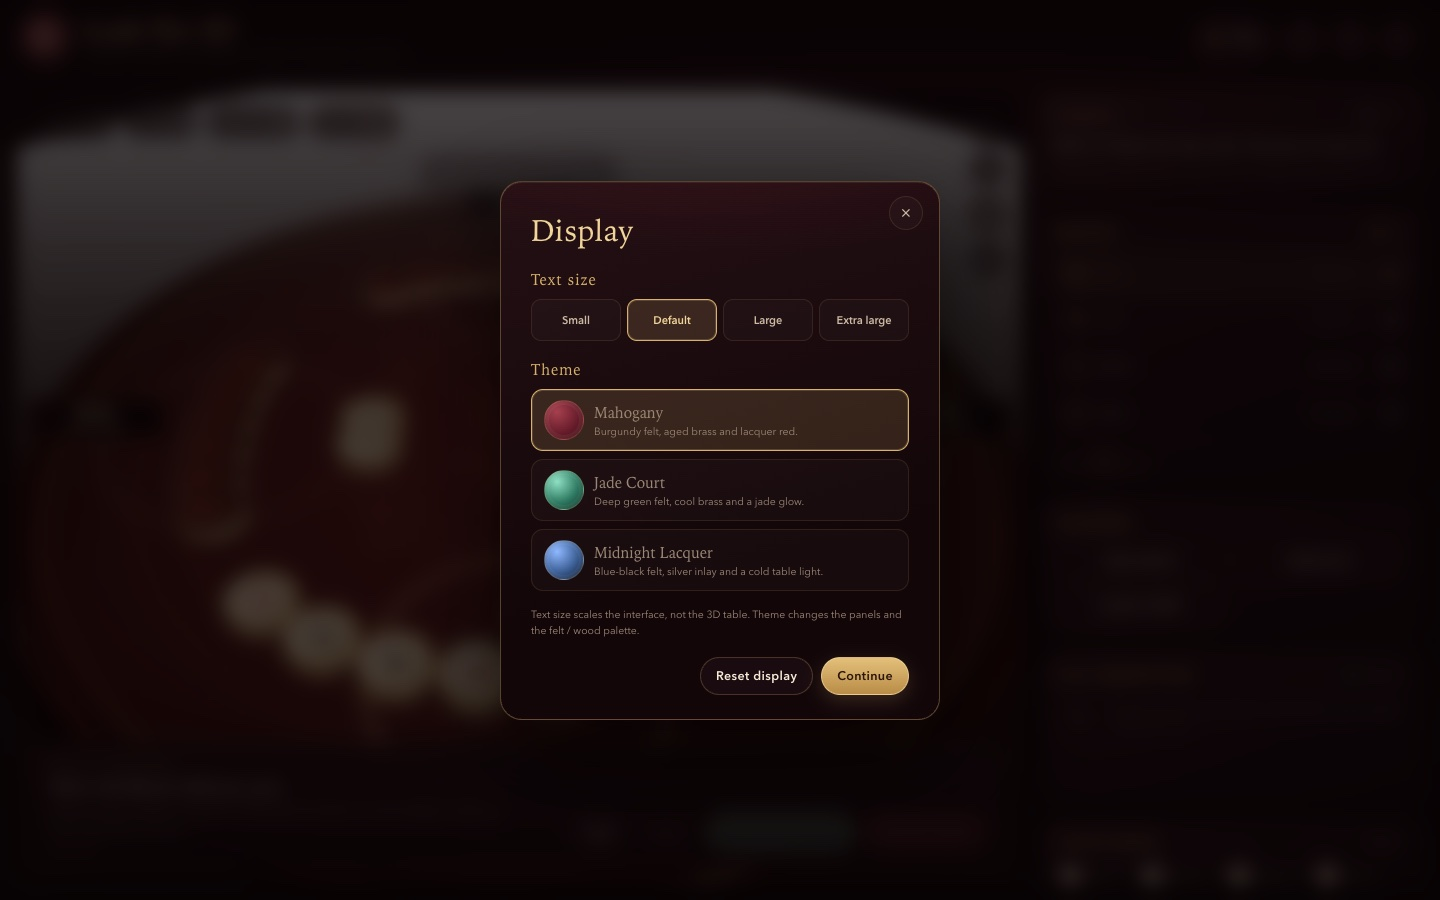
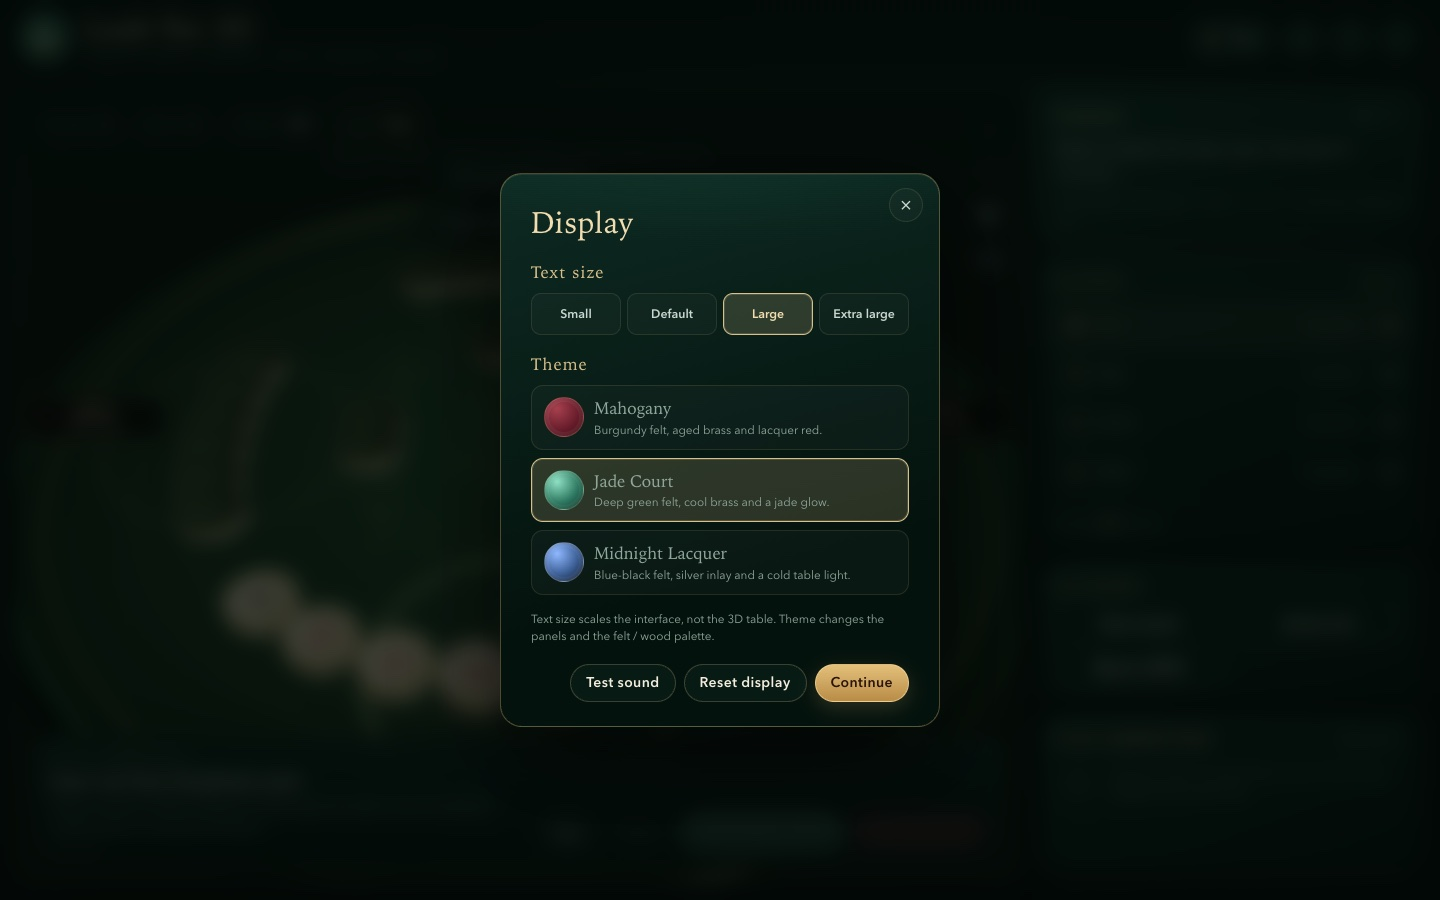
Add sound test and final display release notes

diff --git a/script.js b/script.js
@@ -18,13 +18,13 @@ const APP = Object.freeze({
   license: "MIT",
   build: {
     startedAt: "2026-11-04T00:16:43-08:00",
-    packagedAt: "2026-11-04T08:31:38-08:00",
-    durationHuman: "1h 36m 40s",
-    tokensTotal: "743289",
-    tokensInput: "433865",
-    tokensOutput: "180500",
-    tokensReasoning: "128924",
-    tokensCacheRead: "56907776",
+    packagedAt: "2026-11-04T16:42:58-08:00",
+    durationHuman: "1h 48m 40s",
+    tokensTotal: "775266",
+    tokensInput: "451673",
+    tokensOutput: "186418",
+    tokensReasoning: "137175",
+    tokensCacheRead: "64696448",
     sessionId: "ses_e5a5e419dffedJGEsMy3mKV3ey",
     harness: "OpenCode 2.2.5",
     model: "DeepSeek V4.1 Flash (opencode-go/deepseek-v4.1-flash)"
@@ -248,6 +248,7 @@ const I18N = {
     "display.theme": "Theme",
     "display.note": "Text size scales the interface, not the 3D table. Theme changes the panels and the felt / wood palette.",
     "display.reset": "Reset display",
+    "display.testSound": "Test sound",
     "theme.mahogany": "Mahogany",
     "theme.mahoganyDesc": "Burgundy felt, aged brass and lacquer red.",
     "theme.jade": "Jade Court",
@@ -257,6 +258,7 @@ const I18N = {
     "toast.fontSize": "Text size set to {size}.",
     "toast.theme": "Theme set to {theme}.",
     "toast.displayReset": "Display settings reset.",
+    "toast.soundTest": "Sound test — a wooden clack.",
     "camera.hint": "Drag to orbit · scroll to zoom · right-drag to pan",
     "coach.title": "Coach",
     "coach.live": "live",
@@ -483,6 +485,7 @@ const I18N = {
     "display.theme": "ธีม",
     "display.note": "ขนาดตัวอักษรปรับเฉพาะหน้าจอ ไม่กระทบโต๊ะ 3 มิติ ส่วนธีมเปลี่ยนสีแผงและโทนโต๊ะ",
     "display.reset": "รีเซ็ตการแสดงผล",
+    "display.testSound": "ทดสอบเสียง",
     "theme.mahogany": "มาฮอกกานี",
     "theme.mahoganyDesc": "ผ้าสีเบอร์กันดี ทองเก่า และแดงแล็กเกอร์",
     "theme.jade": "ศาลหยก",
@@ -492,6 +495,7 @@ const I18N = {
     "toast.fontSize": "ตั้งขนาดตัวอักษรเป็น {size}",
     "toast.theme": "ตั้งธีมเป็น {theme}",
     "toast.displayReset": "รีเซ็ตการแสดงผลแล้ว",
+    "toast.soundTest": "ทดสอบเสียง — เสียงไม้กระทบ",
     "camera.hint": "ลากเพื่อหมุน · เลื่อนเพื่อซูม · ลากขวาเพื่อเลื่อนฉาก",
     "coach.title": "โค้ช",
     "coach.live": "สด",
@@ -2266,7 +2270,7 @@ function setSound(enabled) {
   button?.setAttribute("aria-pressed", String(prefs.sound));
   const icon = $("#soundIcon");
   if (icon) icon.textContent = prefs.sound ? "♪" : "♪";
-  if (prefs.sound) audio?.play("click", 0);
+  if (prefs.sound) audio?.play("clack", 0);
   savePrefs();
   toast(prefs.sound ? t("toast.soundOn") : t("toast.soundOff"));
 }
@@ -3557,6 +3561,11 @@ function bindEvents() {
   $$("button[data-font-size]").forEach((button) => button.addEventListener("click", () => applyFontSize(button.dataset.fontSize)));
   $$("button[data-theme-choice]").forEach((button) => button.addEventListener("click", () => applyTheme(button.dataset.themeChoice)));
   $("#displayReset")?.addEventListener("click", resetDisplay);
+  $("#soundTest")?.addEventListener("click", () => {
+    audio?.resume();
+    setTimeout(() => audio?.play("clack", 0), 30);
+    toast(t("toast.soundTest"), "jade");
+  });
 
   $("#leadBtn")?.addEventListener("click", humanLead);
   $("#revealBtn")?.addEventListener("click", () => humanFollow(true));

diff --git a/index.html b/index.html
@@ -201,6 +201,7 @@
         </div>
         <p class="display-note" data-i18n="display.note">Text size scales the interface, not the 3D table. Theme changes the panels and the felt / wood palette.</p>
         <div class="modal-actions">
+          <button id="soundTest" class="btn btn-ghost" type="button" data-i18n="display.testSound">Test sound</button>
           <button id="displayReset" class="btn btn-ghost" type="button" data-i18n="display.reset">Reset display</button>
           <button class="btn btn-gold" type="button" data-close="displayModal" data-i18n="actions.continue">Continue</button>
         </div>

diff --git a/STATE.md b/STATE.md
@@ -16,8 +16,8 @@
 | Primary branch | `main` |
 | Build type | Static site; no package manager, no build step |
 | Source files | `index.html`, `style.css`, `script.js` |
-| Source lines | 4,927 |
-| Source size | 218,918 bytes (~214 KB) |
+| Source lines | 4,937 |
+| Source size | 219,465 bytes (~214 KB) |
 | Runtime dependency | Three.js r160 from jsDelivr (pinned) |
 | Storage | `localStorage` + JSON export |
 | Licence | MIT |
@@ -45,22 +45,23 @@ Audio was also rebalanced: master 0.8, a dynamics compressor, higher per-effect 
 | Documentation, release files, state record | 01:03–01:15 | ~12m |
 | GitHub publication, Pages and skill catalog | 01:15–01:21 | ~6m |
 | **1.1.0 display + audio update** | 08:02–08:31 | 29m 0s |
+| **Audio test + final verification** | 16:37–16:42 | 5m 0s |
 
-**Measured active build duration:** **1h 36m 40s** (5,800 s) = 1h 7m 40s initial build + 29m 0s display/audio update. Session wall clock is longer because it includes an overnight idle gap; the source freeze for 1.0.0 was 01:24:23 and the 1.1.0 update completed at 08:31:38.
+**Measured active build estimate:** **1h 48m 40s** (6,520 s) across the initial build, the display/audio update and the final audio test. Session wall clock is much longer because it includes idle gaps between requests.
 
 ## Token consumption
 
-Measured from the OpenCode session record `ses_e5a5e419dffedJGEsMy3mKV3ey` at 2026-11-04 08:31:38 (-08:00), including the 1.1.0 display/audio update:
+Measured from the OpenCode session record `ses_e5a5e419dffedJGEsMy3mKV3ey` at 2026-11-04 16:42:58 (-08:00), including display settings, themes and the audio rebalance:
 
 | Metric | Tokens |
 | --- | ---: |
-| Input | 433,865 |
-| Output | 180,500 |
-| Reasoning | 128,924 |
-| **Total (input + output + reasoning)** | **743,289** |
-| Cache read | 56,907,776 |
+| Input | 451,673 |
+| Output | 186,418 |
+| Reasoning | 137,175 |
+| **Total (input + output + reasoning)** | **775,266** |
+| Cache read | 64,696,448 |
 | Cache write | 1,639 |
-| **Total including cache** | **57,652,704** |
+| **Total including cache** | **65,473,353** |
 | Cost | $0.00 (as reported) |
 
 The cache figures describe context reuse, not additional generated work. They are reported separately so the headline number stays comparable to a normal token count. These are session totals. The final state-file commit and Pages rebuild add a small number of tokens; the session ID allows re-measurement from `opencode.db`.
@@ -71,7 +72,7 @@ The cache figures describe context reuse, not additional generated work. They ar
 - **Four-seat game** — human South plus three heuristic AI seats; dealing, leading, face-down submission, optional reveal, trick capture, next leader, round and match end.
 - **3D table** — 32 bevelled cylindrical tiles with procedural Hanzi faces and lacquered backs, mahogany felt table, soft shadows, seat rings, floating labels, dust, dealing/flip/capture animations, OrbitControls, reset/top/cinematic cameras, portrait framing.
 - **Learning tools** — tile inspector (Thai/English/rank/copies), live bilingual coach, deterministic Hint, Undo & Learn comparison, full rules drawer.
-- **Bilingual UI** — EN ⇄ TH across 232 dictionary keys, dynamic coach/log/summary strings, tile names, ARIA labels and 3D score labels.
+- **Bilingual UI** — EN ⇄ TH across 235 dictionary keys, dynamic coach/log/summary strings, tile names, ARIA labels and 3D score labels.
 - **Audio** — synthesised shuffle, clack, flip, sweep, win, lose, undo; unlocked on first gesture; no files.
 - **Persistence** — autosaved match, preferences and statistics; reload-resume; versioned JSON export with app, credits, stats and game.
 - **Verification** — 25-check in-page suite, dependency-free static check, Chrome CDP harness, full-round/undo/next-round/reload tests, four release screenshots.
@@ -89,7 +90,7 @@ The cache figures describe context reuse, not additional generated work. They ar
 | Next round | round 2, eight tiles each, scores preserved |
 | Reload mid-trick | phase `follow`, turn 0, hands `[8,7,7,7]`, centre 3, lead/best restored |
 | Display settings | XL applies 1.24×; Jade theme reaches UI + 3D scene; prefs survive reload; 4 sizes + 3 themes exposed |
-| Audio | context running after a trusted gesture; clack peak ≈ 0.11 RMS; no autoplay warning |
+| Audio | context running after a gesture; clack peak ≈ 0.11 RMS; **Test sound** action added; no autoplay warning |
 | Console exceptions | none during boot, self-test or full round |
 | Screenshots | 1440×900 EN, 1440×900 TH, 1440×900 rules, 390×844 mobile |
 

diff --git a/docs/FAQ.md b/docs/FAQ.md
@@ -42,6 +42,9 @@ Yes. The same Display panel offers Mahogany, Jade Court and Midnight Lacquer. Th
 **I hear no sound. What should I check?**  
 Click once anywhere in the page first — browsers block audio until a gesture. Then check the speaker icon (sound on), the device volume, and the browser tab mute. The clack is synthesised, not a file; there is no audio download to fail. If you still hear nothing, open the console and check for an `AudioContext` error.
 
+**How do I confirm sound works?**  
+Open **Aa** → **Test sound**. You should hear a wooden clack. The same sound plays when you lead a tile; if the test is silent, check the tab/device volume, the speaker icon, and the browser console.
+
 **Where is my data?**  
 In this browser's `localStorage` (`leabtui.match.v1`, `leabtui.prefs.v1`, `leabtui.stats.v1`). **Export JSON** writes a file; nothing is uploaded.
 

diff --git a/CHANGELOG.md b/CHANGELOG.md
@@ -11,7 +11,7 @@ All notable changes to Leab-Tui 3D are documented here. The format follows [Keep
 - Theme switching recolours the UI panels, felt, wood, brass/silver inlay, table rim, floor and lighting; old procedural textures are disposed.
 - Display preferences persist in `localStorage` alongside language, sound and coach settings.
 - A `Reset display` action and browser verification for the 1.24× XL scale, theme propagation to the 3D scene, persistence and the four-size/three-theme controls.
-- 21 new bilingual keys (232 per language) and updated release documentation.
+- 24 new bilingual keys (235 per language), a **Test sound** action and updated release documentation.
 
 ### Fixed
 

diff --git a/docs/CONTROLS.md b/docs/CONTROLS.md
@@ -58,6 +58,7 @@ Press **Aa** in the stage toolbar to open the Display panel.
 
 - **Text size** — Small (0.9×), Default (1×), Large (1.12×), Extra large (1.24×). The whole interface scales; the 3D table does not.
 - **Theme** — Mahogany, Jade Court, Midnight Lacquer. Both the panels and the 3D felt/wood/light palette change.
+- **Test sound** plays a wooden clack so you can confirm the audio path.
 - **Reset display** returns to Default + Mahogany.
 - The choices persist in `localStorage` and are restored on reload.
 

diff --git a/docs/TESTING.md b/docs/TESTING.md
@@ -54,7 +54,7 @@ node scripts/verify.mjs
 | 21 | deal gives four hands of eight | 4 × 8, 32 unique |
 | 22 | scoring table | `-2,-1,0,1,2,3,4,5,16` |
 | 23 | simulated round conserves tiles | captures = 32 |
-| 24 | i18n keys symmetrical | EN and TH both 232 keys |
+| 24 | i18n keys symmetrical | EN and TH both 235 keys |
 | 25 | export payload shape | app + credits + 4 scores |
 
 Latest result: **SELFTEST PASS 25/25** (Chrome headless, 2026-11-04).
